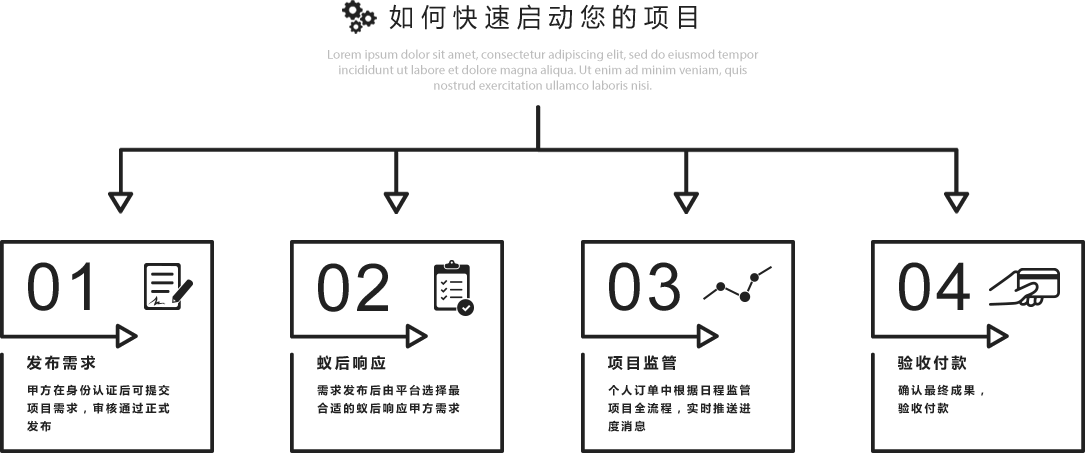
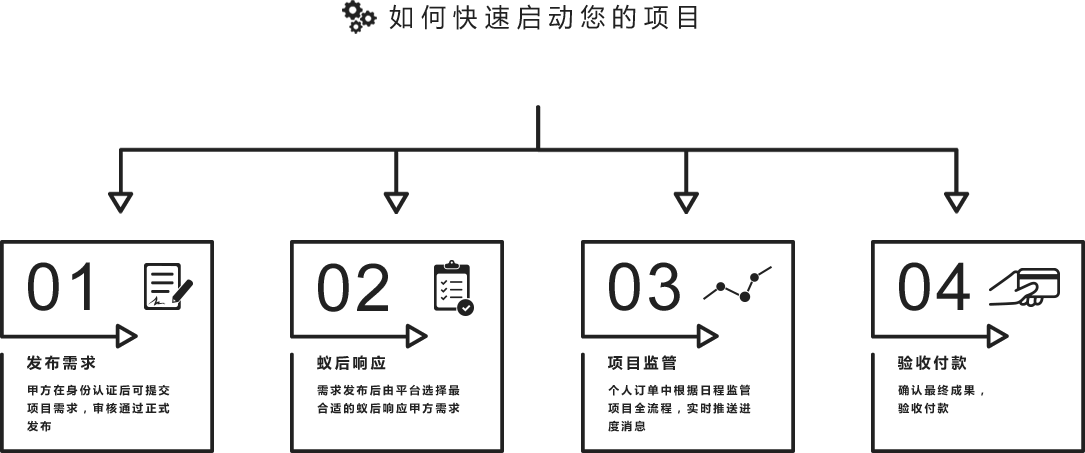
首页快速启动图片删除无用英文 首页滚动大图改为无限循环

Changed region(s): [[0.3041, 0.0927, 0.6995, 0.2163]]

diff --git a/app/assets/javascripts/welcome.js b/app/assets/javascripts/welcome.js
@@ -15,8 +15,9 @@ $(function(){
 		i_slide($(".container_image"),newopt);
 
 		$('.homepageCarousel.owl-carousel').owlCarousel({
-      autoplay: 3,
+      		autoplay: 3,
 			dots:true,
+			loop:true,
 			responsive:{
 		        0:{
 		            items:1
